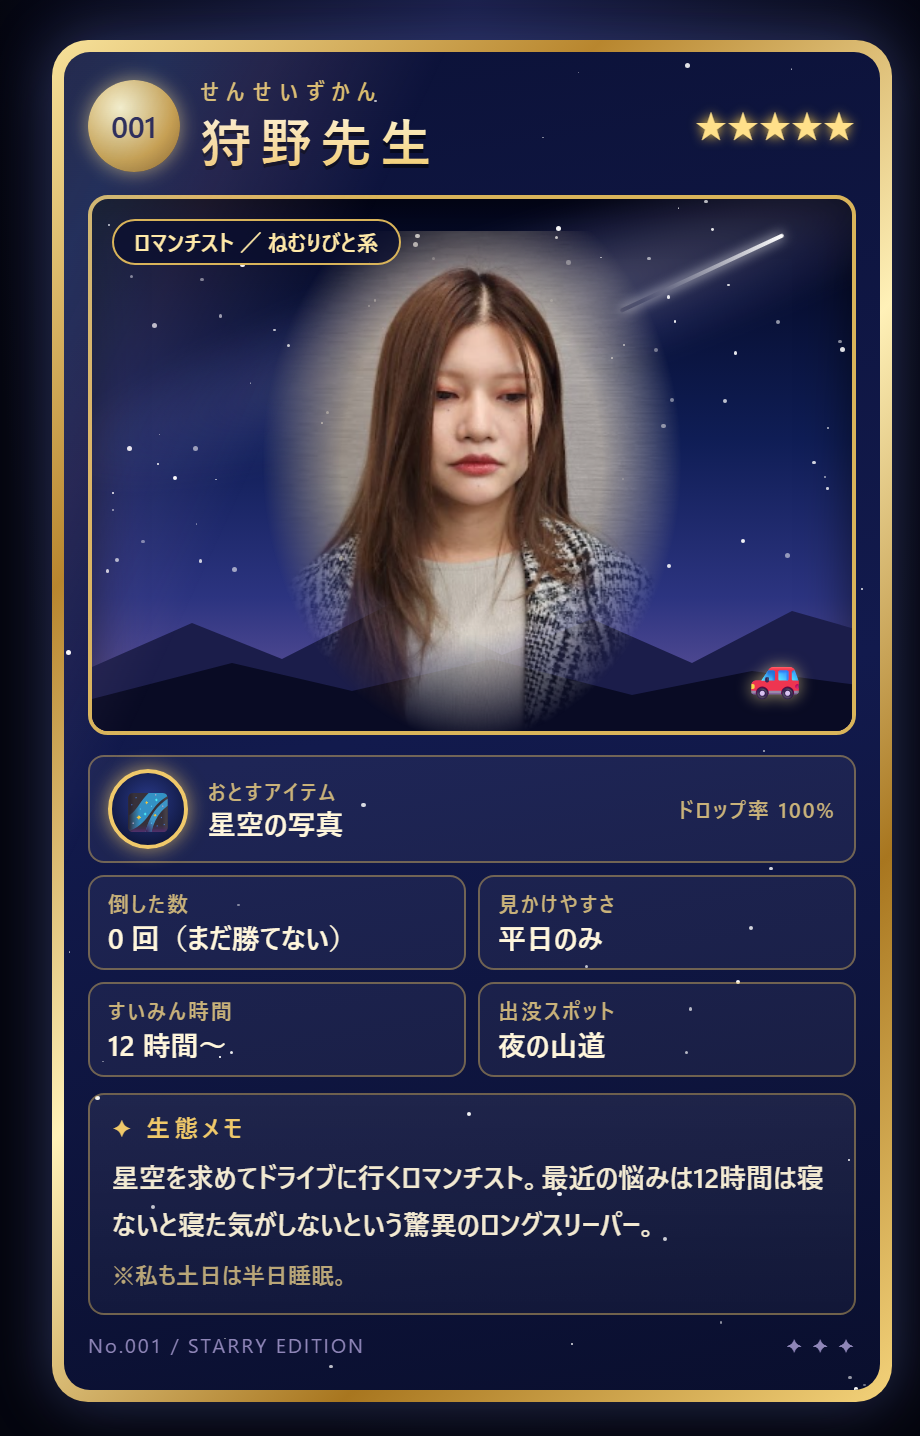
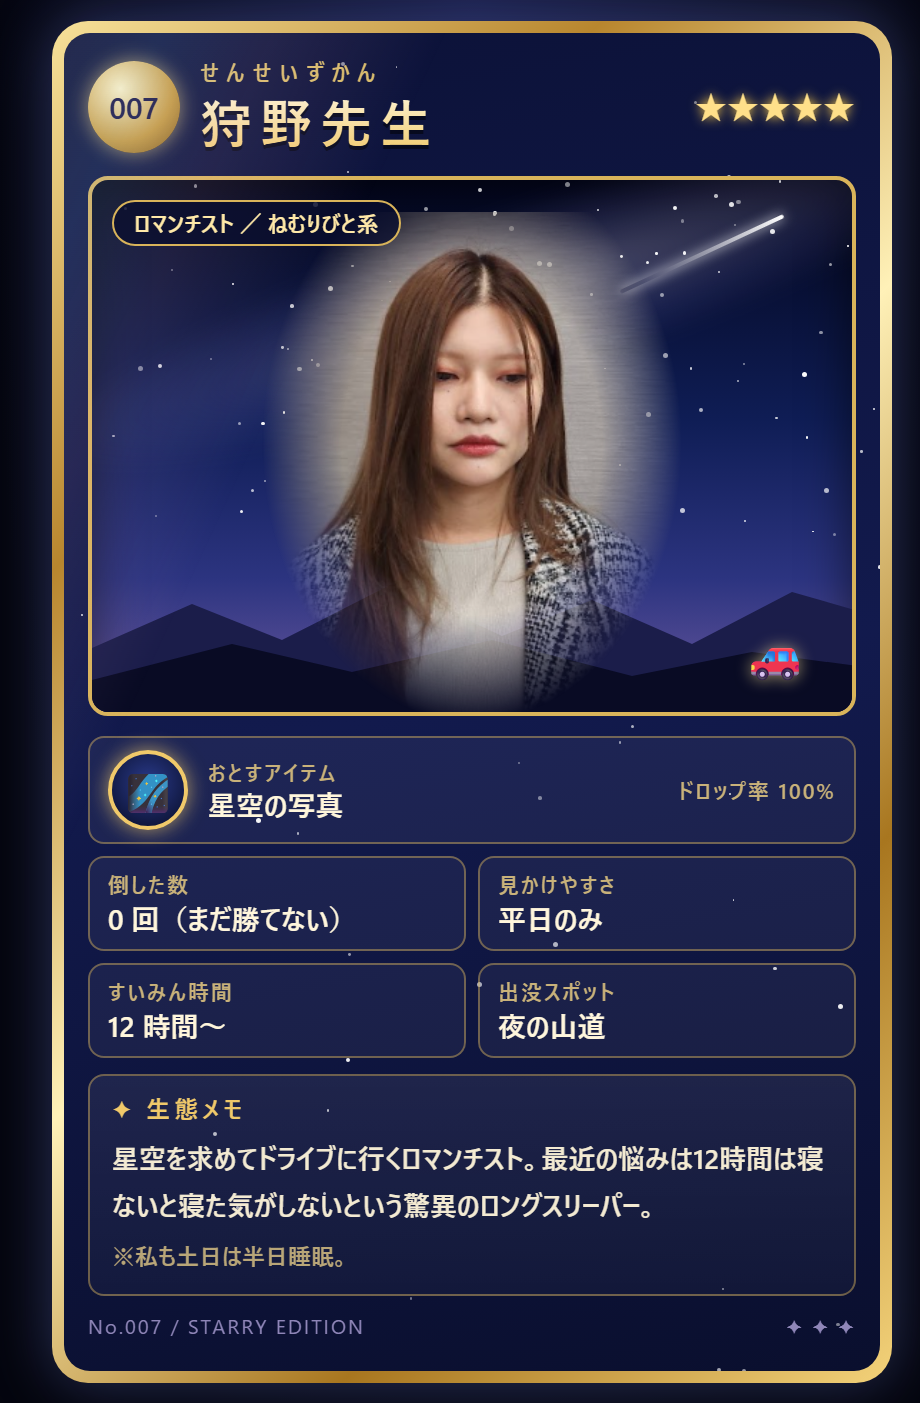
Add 八木先生 art and renumber 狩野先生's card
- 八木先生: cut-out battle sprite, starry 図鑑 card (No.003),
  intro text and voice line
- Yagi's drop item becomes メガネ
- 狩野先生's card now shows No.007 to match the 図鑑 order

diff --git a/app/game-data.ts b/app/game-data.ts
@@ -37,7 +37,7 @@ export const ITEMS: ItemDef[] = [
   { id: "candy", name: "ふしぎなアメ", emoji: "🍬", rarity: "N", description: "どの先生もポケットに入れている。" },
   { id: "badge", name: "探検家バッジ", emoji: "📛", rarity: "N", description: "会場を歩き回った証。" },
   { id: "whistle", name: "ホイッスル", emoji: "📯", rarity: "R", description: "ピッと鳴らすと背筋がのびる。" },
-  { id: "flask", name: "フラスコ", emoji: "⚗", rarity: "R", description: "中身は秘密の実験液。" },
+  { id: "flask", name: "メガネ", emoji: "👓", rarity: "R", description: "八木先生が実際にかけているメガネ。" },
   { id: "compass", name: "コンパス", emoji: "🧭", rarity: "R", description: "きれいな円が描ける。" },
   { id: "apron", name: "エプロン", emoji: "🧺", rarity: "R", description: "ほんのりカレーのにおいがする。" },
   { id: "brush", name: "書道の筆", emoji: "🖌", rarity: "R", description: "とめ・はね・はらい。" },
@@ -108,9 +108,12 @@ export const BOSSES: BossDef[] = [
     attackPercent: 14,
     gold: [60, 90],
     drops: drops("flask"),
-    description: "（紹介文を入れてください）",
-    voice: "（セリフを入れてください）",
+    description:
+      "投資と家族への愛で構成されている極めてシンプルな生き物。物欲センサーが完全に欠落している。最近の悩みは娘にパパよりママのほうが好きと言われていること。",
+    voice: "物欲？ ないですね。あるのは投資と家族への愛だけです。",
     skill: { name: "弱点分析", description: "攻撃力が上がる", boostPerLevel: { attack: 3 } },
+    image: "/teachers/yagi.png",
+    card: "/teachers/yagi-card.png",
   },
   {
     id: "ohashi",
